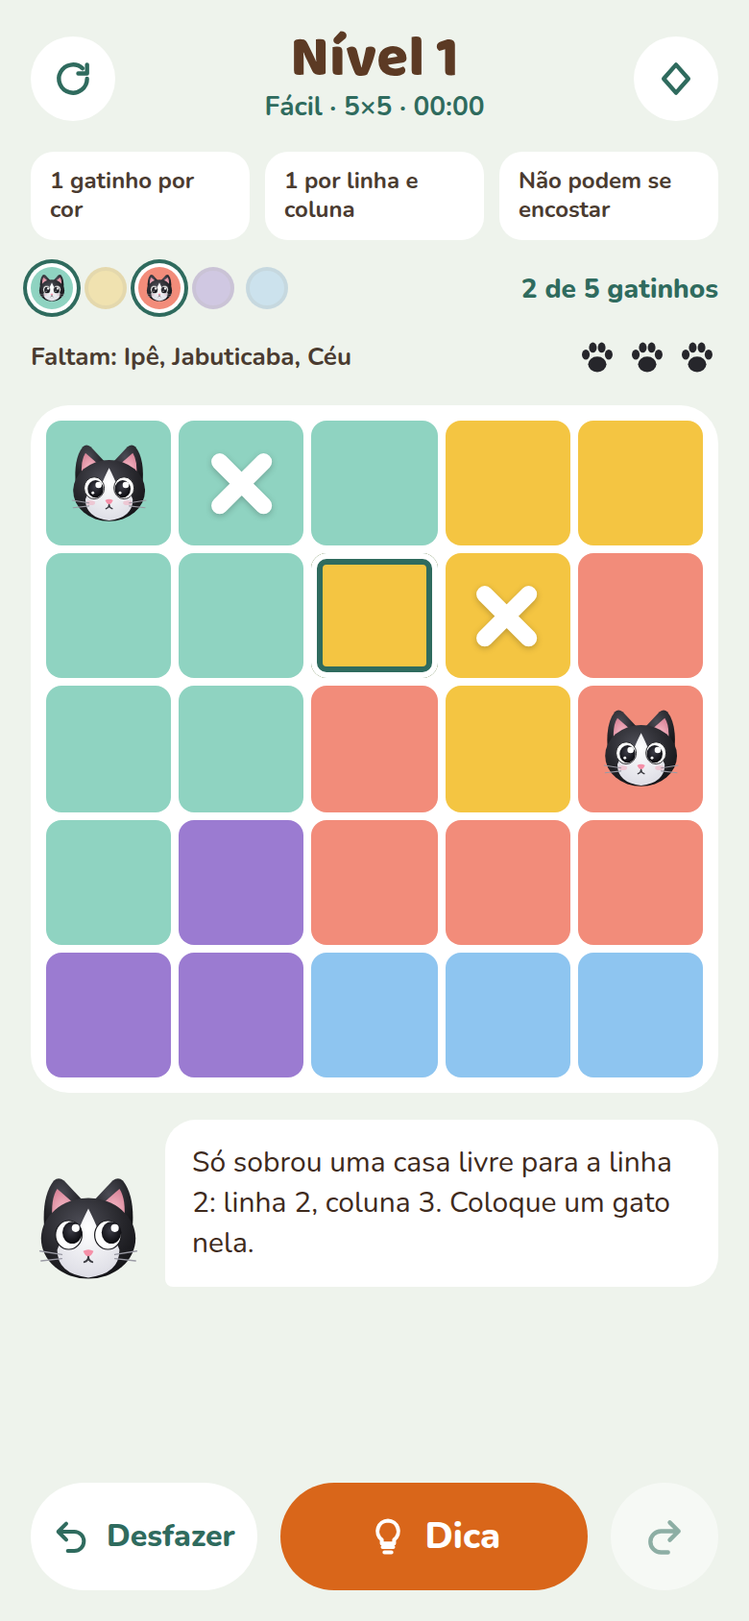
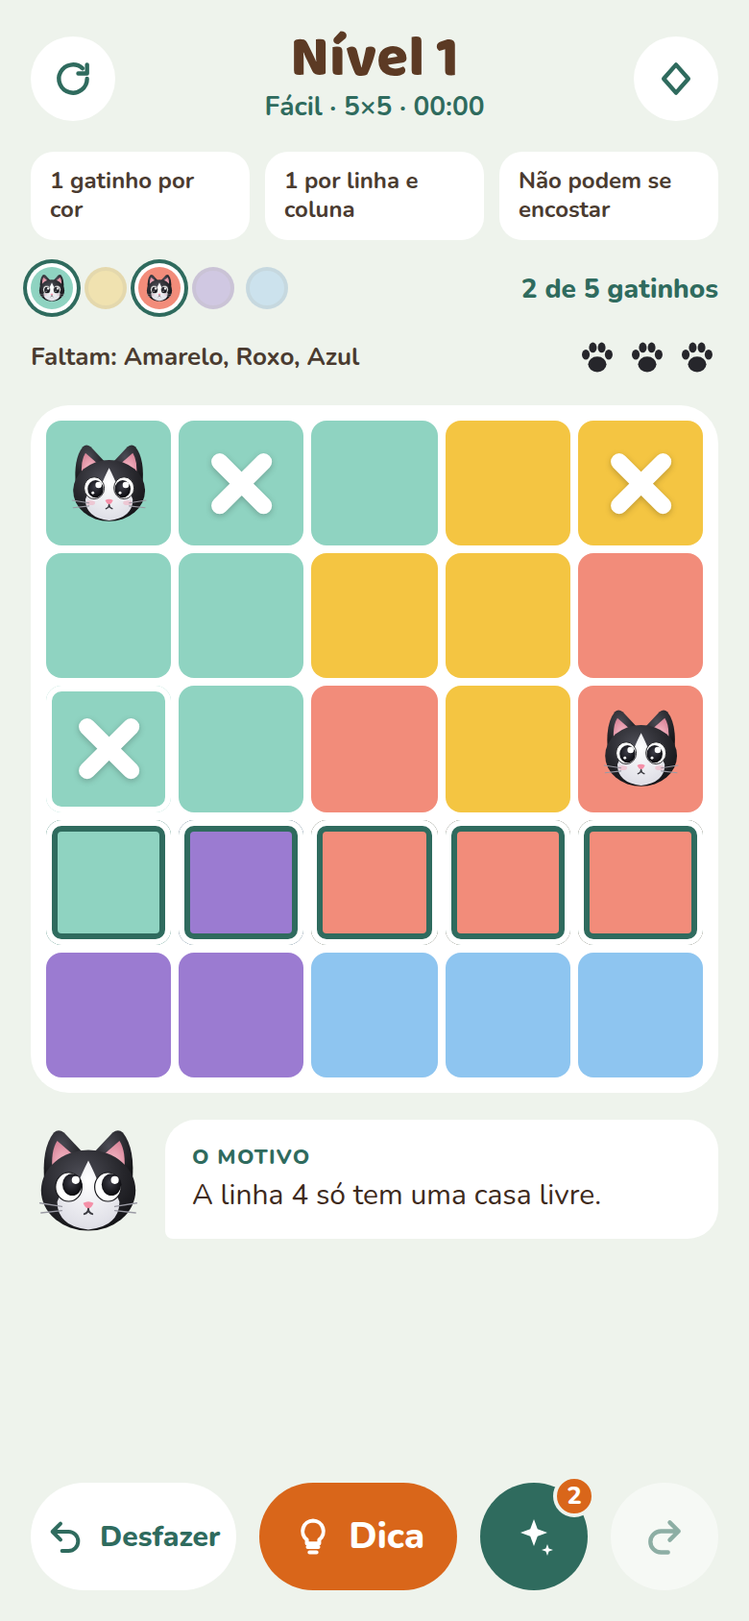
Glossário aplicado: nomes de cores simples, esqueleto de carregamento, textos e imagens atualizados

diff --git a/src/ui/main.ts b/src/ui/main.ts
@@ -4,7 +4,7 @@ import { findErrors } from '../core/hint';
 import { FIXED_LEVELS } from '../core/levels';
 import { requestLevel } from '../core/levelClient';
 import { COLOR_HEX, COLOR_NAMES, COLOR_SYMBOLS } from '../core/messages';
-import { DIFFICULTY_LABEL } from '../core/progression';
+import { DIFFICULTY_LABEL, specForLevel } from '../core/progression';
 import { EARN_EVERY, loadProgress, recordCompletion, saveProgress, spendReveal, type Progress } from '../core/progress';
 import { load, save, type KV } from '../core/storage';
 import type { Puzzle } from '../core/types';
@@ -92,14 +92,15 @@ function render(): void {
   const hintBtn = $('hintBtn') as HTMLButtonElement;
   hintBtn.disabled = !g.won && !canHint(g);
   hintBtn.dataset.mode = g.won ? 'next' : 'hint';
-  hintBtn.lastChild!.textContent = g.won ? ' Próxima fase' : ' Dica';
+  hintBtn.lastChild!.textContent = g.won ? ' Próximo nível' : ' Dica';
   $('symbols').setAttribute('aria-pressed', String(symbols));
 
   const hint = $('hint');
   if (h && !g.won) {
     hint.hidden = false;
     const text = h.level === 1 ? h.data.areaText : h.data.message;
-    hint.innerHTML = `${catHint(60)}<div class="bubble"><span>${text}</span>${h.level === 3 && h.data.apply ? '<button id="apply" class="apply">Aplicar</button>' : ''}</div>`;
+    const tag = h.data.kind === 'deduction' ? `<small class="tag">${h.level === 1 ? 'O motivo' : 'O que fazer'}</small>` : '';
+    hint.innerHTML = `${catHint(60)}<div class="bubble"><span>${tag}${text}</span>${h.level === 3 && h.data.apply ? '<button id="apply" class="apply">Fazer por mim</button>' : ''}</div>`;
   } else hint.hidden = true;
 
   $('powerCount').textContent = String(progress.powers.reveal);
@@ -109,18 +110,18 @@ function render(): void {
     sheet.hidden = false;
     sheet.innerHTML = `<div class="panel" role="dialog" aria-modal="true" aria-label="Poderes"><button id="closePowers" class="close" aria-label="Fechar">${CLOSE_SVG}</button><h2>Poderes</h2>
       <div class="power-item"><span class="ico"><svg viewBox="0 0 24 24" width="26" height="26" aria-hidden="true"><path d="M12 3l1.9 5.1L19 10l-5.1 1.9L12 17l-1.9-5.1L5 10l5.1-1.9z" fill="currentColor"/></svg></span>
-      <span class="txt"><b>Revelar um gatinho (${progress.powers.reveal})</b>Mostra um gatinho que ainda não foi achado. Não gasta tentativa.</span>
+      <span class="txt"><b>Revelar gatinho · ${progress.powers.reveal} ${progress.powers.reveal === 1 ? 'uso' : 'usos'}</b>Mostra um gatinho que ainda não foi achado. Não gasta tentativa.</span>
       <button id="useReveal" class="use" ${can ? '' : 'disabled'}>Usar</button></div>
-      <p class="sheet-note">Ganhe +1 a cada ${EARN_EVERY} níveis concluídos. Concluídos até agora: ${progress.completed}.</p></div>`;
+      <p class="sheet-note">Ganhe +1 uso a cada ${EARN_EVERY} níveis concluídos. Concluídos até agora: ${progress.completed}.</p></div>`;
   } else sheet.hidden = true;
 
   const ov = $('overlay');
   if (g.won && !winClosed) {
     ov.hidden = false;
-    ov.innerHTML = `${CONFETTI}<div class="card" role="dialog" aria-modal="true" aria-label="Fase concluída"><button id="closeWin" class="close" aria-label="Fechar">${CLOSE_SVG}</button><span class="bob">${catCheer(124)}</span><h2>Você achou todos!</h2><p>Nível ${level} concluído em ${fmt(elapsedMs(g))}</p><p>Dicas: ${g.hintsUsed} · Poderes: ${g.powersUsed} · Tentativas restantes: ${attemptsLeft(g)}</p><button id="next" class="next">Próxima fase</button></div>`;
+    ov.innerHTML = `${CONFETTI}<div class="card" role="dialog" aria-modal="true" aria-label="Nível concluído"><button id="closeWin" class="close" aria-label="Fechar">${CLOSE_SVG}</button><span class="bob">${catCheer(124)}</span><h2>Você achou todos os gatinhos!</h2><p>Nível ${level} concluído em ${fmt(elapsedMs(g))}</p><p>Dicas: ${g.hintsUsed} · Poderes: ${g.powersUsed} · Tentativas restantes: ${attemptsLeft(g)}</p><button id="next" class="next">Próximo nível</button></div>`;
   } else if (isLost(g)) {
     ov.hidden = false;
-    ov.innerHTML = `<div class="card" role="dialog" aria-modal="true" aria-label="Tentativas esgotadas"><span class="bob">${catFace(96)}</span><h2>Acabaram as tentativas</h2><p>Você usou as ${MAX_ATTEMPTS} tentativas deste quadro.</p><button id="again" class="big">Reiniciar o quadro</button><button id="keep" class="ghost">Continuar mesmo assim</button></div>`;
+    ov.innerHTML = `<div class="card" role="dialog" aria-modal="true" aria-label="Sem tentativas"><span class="bob">${catFace(96)}</span><h2>Sem tentativas</h2><p>Você usou as ${MAX_ATTEMPTS} tentativas deste nível.</p><button id="again" class="big">Recomeçar nível</button><button id="keep" class="ghost">Continuar sem limite</button></div>`;
   } else ov.hidden = true;
 }
 
@@ -129,20 +130,55 @@ function update(next: GameState): void {
     progress = recordCompletion(progress, level, elapsedMs(next));
     saveProgress(kv, progress);
   }
+  if (game && next.mistakes > game.mistakes && !isLost(next)) toast('Aqui não tem gatinho. Você perdeu 1 tentativa.');
   game = next;
   save(kv, level, game, symbols);
   render();
+}
+
+/** Esqueleto animado enquanto o Worker prepara o nível (níveis grandes podem levar alguns segundos). */
+function showLoading(k: number): void {
+  const spec = specForLevel(k);
+  const n = spec.size;
+  $('app').classList.add('loading');
+  $('title').textContent = `Nível ${k}`;
+  $('sub').textContent = `${DIFFICULTY_LABEL[spec.difficulty]} · ${n}×${n}`;
+  const board = $('board');
+  board.style.setProperty('--n', String(n));
+  board.classList.toggle('dense', n >= 9);
+  board.innerHTML = Array.from({ length: n * n }, (_, i) => `<div class="cell skel" style="animation-delay:${((Math.floor(i / n) + (i % n)) * 70) % 1400}ms"></div>`).join('');
+  $('powerCount').textContent = String(progress.powers.reveal);
+  $('progress').innerHTML = '';
+  $('found').textContent = '';
+  $('missing').textContent = '';
+  $('tries').innerHTML = '';
+  $('warn').hidden = true;
+  $('overlay').hidden = true;
+  $('sheet').hidden = true;
+  const hint = $('hint');
+  hint.hidden = false;
+  hint.innerHTML = `<span class="bob">${catHint(60)}</span><div class="bubble"><span>Preparando o nível ${k}…${n >= 9 ? ' Tabuleiros grandes demoram um pouquinho.' : ''}</span></div>`;
+}
+
+let toastTimer = 0;
+function toast(msg: string): void {
+  const t = $('toast');
+  t.textContent = msg;
+  t.hidden = false;
+  clearTimeout(toastTimer);
+  toastTimer = window.setTimeout(() => (t.hidden = true), 2200);
 }
 
 async function startLevel(k: number): Promise<void> {
   if (loading) return;
   loading = true;
   level = k;
-  $('title').textContent = `Gerando nível ${k}…`;
+  showLoading(k);
   const res = await requestLevel(k);
-  // erro tratado: a interface não trava e cai numa fase fixa
+  // erro tratado: a interface não trava e cai num nível fixo
   const puzzle: Puzzle = res.ok ? res.puzzle : FIXED_LEVELS[(k - 1) % FIXED_LEVELS.length];
   loading = false;
+  $('app').classList.remove('loading');
   prevStates = null;
   winClosed = false;
   showPowers = false;
@@ -158,7 +194,7 @@ const cellAt = (x: number, y: number): number | null => {
 const board = $('board');
 board.addEventListener('pointerdown', (e) => {
   const i = cellAt(e.clientX, e.clientY);
-  if (i !== null && game && !game.won) down = { start: i, path: [i], dragging: false };
+  if (i !== null && game && !game.won && !loading) down = { start: i, path: [i], dragging: false };
 });
 board.addEventListener('pointermove', (e) => {
   if (!down || !game) return;
@@ -182,6 +218,7 @@ board.addEventListener('click', (e) => {
 });
 
 document.addEventListener('click', (e) => {
+  if (loading) return;
   const id = (e.target as HTMLElement).closest('button')?.id;
   if (!game || !id) return;
   if (id === 'undo') update(undo(game));
@@ -208,7 +245,7 @@ document.addEventListener('click', (e) => {
 });
 
 setInterval(() => {
-  if (game && !game.won) $('sub').textContent = `${game.puzzle.difficulty ? DIFFICULTY_LABEL[game.puzzle.difficulty] : 'Fixa'} · ${game.puzzle.size}×${game.puzzle.size} · ${fmt(elapsedMs(game))}`;
+  if (game && !game.won && !loading) $('sub').textContent = `${game.puzzle.difficulty ? DIFFICULTY_LABEL[game.puzzle.difficulty] : 'Fixa'} · ${game.puzzle.size}×${game.puzzle.size} · ${fmt(elapsedMs(game))}`;
 }, 1000);
 
 const saved = load(kv);

diff --git a/src/core/game.ts b/src/core/game.ts
@@ -17,9 +17,9 @@ export interface GameState {
   history: Change[][];
   redo: Change[][];
   hintsUsed: number;
-  /** erros do jogador (X em casa de gatinho); ao chegar em MAX_ATTEMPTS a fase é perdida */
+  /** erros do jogador (X em casa de gatinho); ao chegar em MAX_ATTEMPTS o nível é perdido */
   mistakes: number;
-  /** poderes usados nesta fase */
+  /** poderes usados neste nível */
   powersUsed: number;
   /** casa que recebeu o toque anterior: um 2º toque seguido nela é uma tentativa */
   armed: number | null;
@@ -101,7 +101,7 @@ export function conflicts(g: GameState): Set<number> {
 /**
  * Dois toques seguidos na mesma casa = uma tentativa de achar o gatinho. O que decide acerto ou erro é
  * só haver (ou não) um gatinho ali; ter ou não um X na casa não importa.
- *  - 1º toque: casa vazia vira X (rascunho do jogador, nunca automático); casa já com X só fica "armada".
+ *  - 1º toque: casa vazia vira X (anotação do jogador, nunca automática); casa já com X só fica "armada".
  *  - 2º toque seguido: se há gatinho, ele aparece; se não há, o X é limpo e a tentativa é gasta (MAX_ATTEMPTS).
  * Um gatinho revelado não some ao tocar de novo.
  */
@@ -121,7 +121,7 @@ export function tap(g: GameState, i: number): GameState {
   return { ...g, armed: i, hint: null };
 }
 
-/** Arrasto: casas vazias percorridas viram X, sem sobrescrever gatos (nem X). */
+/** Arrasto: casas vazias percorridas viram X, sem sobrescrever gatinhos (nem marcas ✕). */
 export function dragX(g: GameState, path: number[]): GameState {
   if (locked(g)) return g;
   const seen = new Set<number>();
@@ -200,7 +200,7 @@ export function canHint(g: GameState): boolean {
   return !locked(g);
 }
 
-/** Toque no botão de dica: 1 = área, 2 = frase, 3 = botão Aplicar. Não conta em hintsUsed. */
+/** Toque no botão de dica: 1 = área, 2 = frase, 3 = botão Fazer por mim. Não conta em hintsUsed. */
 export function pressHint(g: GameState): GameState {
   if (!canHint(g)) return g;
   if (!g.hint) {
@@ -211,7 +211,7 @@ export function pressHint(g: GameState): GameState {
   return { ...g, hint: { ...g.hint, level: (g.hint.level + 1) as 2 | 3 } };
 }
 
-/** Aplicar (só no nível 3): marca o passo numa única entrada de histórico; hintsUsed +1. */
+/** Fazer por mim (só no nível 3): marca o passo numa única entrada de histórico; hintsUsed +1. */
 export function applyHint(g: GameState): GameState {
   const h = g.hint;
   if (!h || h.level !== 3 || !h.data.apply || locked(g)) return g;

diff --git a/src/core/messages.ts b/src/core/messages.ts
@@ -1,6 +1,6 @@
 import type { Deduction } from './human';
 
-export const COLOR_NAMES = ['Aguapé', 'Ipê', 'Pitanga', 'Jabuticaba', 'Céu', 'Capim', 'Barro claro', 'Flor', 'Tangerina', 'Neblina'];
+export const COLOR_NAMES = ['Menta', 'Amarelo', 'Coral', 'Roxo', 'Azul', 'Verde', 'Marrom', 'Rosa', 'Laranja', 'Cinza'];
 export const COLOR_HEX = ['#8FD3C1', '#F4C542', '#F28C7A', '#9B7BD1', '#8EC5F0', '#A9D86E', '#D9A273', '#F2A7C8', '#F7A955', '#B8C2CC'];
 export const COLOR_SYMBOLS = ['●', '▲', '■', '◆', '★', '✚', '⬟', '♥', '☾', '✿'];
 
@@ -54,15 +54,15 @@ export function hintMessage(d: Deduction, size: number): string {
       return `${premise} Ela fica na linha ${r}, coluna ${c}: coloque um gatinho lá.`;
     }
     case 2:
-      return `${premise} Então o gatinho da ${colors(d.regions)} está nela, e as outras casas dessa ${lineWord(d.lineKind, 1)} (que não são dessa cor) não podem ter gatinho: risque-as.`;
+      return `${premise} Então o gatinho da ${colors(d.regions)} está nela, e as outras casas dessa ${lineWord(d.lineKind, 1)} (que não são dessa cor) não podem ter gatinho: marque ✕ nelas.`;
     case 3:
-      return `${premise} Então o gatinho dessa ${lineWord(d.lineKind, 1)} é da ${colors(d.regions)}, e as casas dessa cor fora dela não podem ter gatinho: risque-as.`;
+      return `${premise} Então o gatinho dessa ${lineWord(d.lineKind, 1)} é da ${colors(d.regions)}, e as casas dessa cor fora dela não podem ter gatinho: marque ✕ nelas.`;
     case 4:
     case 7:
-      return `${premise} Então não pode haver gatinho ali: risque essa casa.`;
+      return `${premise} Então não pode haver gatinho ali: marque ✕ nessa casa.`;
     case 5:
-      return `${premise} Elas ocupam essas ${lineWord(d.lineKind, 2)}, então as casas de outras cores nelas não podem ter gatinho: risque-as.`;
+      return `${premise} Elas ocupam essas ${lineWord(d.lineKind, 2)}, então as casas de outras cores nelas não podem ter gatinho: marque ✕ nelas.`;
     case 6:
-      return `${premise} Os gatinhos dessas ${lineWord(d.lineKind, 2)} serão dessas cores, então as outras casas dessas cores, fora delas, não podem ter gatinho: risque-as.`;
+      return `${premise} Os gatinhos dessas ${lineWord(d.lineKind, 2)} serão dessas cores, então as outras casas dessas cores, fora delas, não podem ter gatinho: marque ✕ nelas.`;
   }
 }

diff --git a/index.html b/index.html
@@ -25,11 +25,11 @@
     </svg>
     <div id="app">
       <div class="top">
-        <button id="restart" class="round" aria-label="Reiniciar fase">
+        <button id="restart" class="round" aria-label="Recomeçar nível" title="Recomeçar nível">
           <svg viewBox="0 0 24 24" width="22" height="22" aria-hidden="true"><path d="M20 12a8 8 0 1 1-2.6-5.9M20 4v5h-5" stroke="#2F6B5E" stroke-width="2.4" fill="none" stroke-linecap="round" stroke-linejoin="round"/></svg>
         </button>
         <div class="titles"><span id="title">Gatinhos</span><span id="sub"></span></div>
-        <button id="symbols" class="round" aria-label="Símbolos nas cores" aria-pressed="false">
+        <button id="symbols" class="round" aria-label="Mostrar símbolos nas cores" title="Símbolos" aria-pressed="false">
           <svg viewBox="0 0 24 24" width="22" height="22" aria-hidden="true"><path d="M12 4l7 8-7 8-7-8z" stroke="currentColor" stroke-width="2.4" fill="none" stroke-linejoin="round"/></svg>
         </button>
       </div>
@@ -42,7 +42,7 @@
         <span id="missing" class="missing"></span>
         <div id="tries" class="tries" role="img"></div>
       </div>
-      <div id="warn" class="warn" role="status" hidden>Alguma marcação ✕ está errada — o X é só rascunho.</div>
+      <div id="warn" class="warn" role="status" hidden>Alguma marca ✕ está no lugar errado.</div>
       <div id="board" role="grid" aria-label="Tabuleiro"></div>
       <div id="hint" hidden></div>
       <div class="spacer"></div>
@@ -63,6 +63,7 @@
           <svg viewBox="0 0 24 24" width="22" height="22" aria-hidden="true"><path d="M15 14 L20 9 L15 4 M20 9 H10 A6 6 0 0 0 10 21 H14" stroke="#2F6B5E" stroke-width="2.4" fill="none" stroke-linecap="round" stroke-linejoin="round"/></svg>
         </button>
       </div>
+      <div id="toast" class="toast" role="status" hidden></div>
       <div id="sheet" hidden></div>
       <div id="overlay" hidden></div>
     </div>

diff --git a/src/ui/style.css b/src/ui/style.css
@@ -95,3 +95,10 @@ button:disabled { opacity: .5; cursor: default; }
 .sheet-note { margin: 0; font-size: 13px; color: var(--suave); }
 .cell.tgt { box-shadow: inset 0 0 0 3px #fff, inset 0 0 0 6px var(--tangerina); z-index: 1; }
 .layer.ghost { opacity: .55; }
+
+.tag { display: block; font-size: 11px; font-weight: 800; letter-spacing: .06em; text-transform: uppercase; color: var(--mata); margin-bottom: 2px; }
+.toast { position: absolute; left: 16px; right: 16px; top: max(env(safe-area-inset-top), 16px); z-index: 6; background: var(--frajola); color: #fff; padding: 12px 16px; border-radius: 16px; font-size: 15px; font-weight: 700; text-align: center; animation: winPop .25s ease both; }
+.cell.skel { background: linear-gradient(110deg, #e1e9de 30%, #f3f7f1 50%, #e1e9de 70%); background-size: 200% 100%; animation: shimmer 1.4s ease-in-out infinite; }
+#app.loading .bar button, #app.loading .top button { pointer-events: none; opacity: .5; }
+#hint .bob { animation: bob 1.4s ease-in-out infinite; display: block; }
+@keyframes shimmer { 0% { background-position: 150% 0; } 100% { background-position: -50% 0; } }

diff --git a/tests/hints.test.ts b/tests/hints.test.ts
@@ -174,6 +174,6 @@ describe('CA19 mensagens', () => {
   });
   it('exemplo T5 em texto', () => {
     const msg = hintMessage({ tech: 5, cats: [], xs: [0], lineKind: 'col', lines: [4, 5], regions: [3, 7], premise: [] }, 10);
-    expect(msg).toBe('As cores Jabuticaba e Flor só têm casas nas colunas 5 e 6. Elas ocupam essas colunas, então as casas de outras cores nelas não podem ter gatinho: risque-as.');
+    expect(msg).toBe('As cores Roxo e Rosa só têm casas nas colunas 5 e 6. Elas ocupam essas colunas, então as casas de outras cores nelas não podem ter gatinho: marque ✕ nelas.');
   });
 });

diff --git a/src/core/hint.ts b/src/core/hint.ts
@@ -19,7 +19,7 @@ export interface Hint {
 export const chebyshev = (n: number, a: number, b: number) =>
   Math.max(Math.abs(Math.floor(a / n) - Math.floor(b / n)), Math.abs((a % n) - (b % n)));
 
-/** Casas com erro: gato fora da solução ou X em casa de gato da solução (o X é rascunho e pode estar errado). */
+/** Casas com erro: gatinho fora da solução ou marca ✕ em casa de gatinho (a marca é anotação e pode estar errada). */
 export function findErrors(puzzle: Puzzle, cells: Mark[]): number[] {
   const n = puzzle.size;
   const out: number[] = [];

diff --git a/README.md b/README.md
@@ -13,7 +13,7 @@
 
 ## 📜 Como jogar
 
-O tabuleiro é dividido em **regiões coloridas**. Seu objetivo é encontrar **um gatinho em cada região**, seguindo três regras:
+O tabuleiro é dividido em **cores**. Seu objetivo é encontrar **um gatinho em cada cor**, seguindo três regras:
 
 | | Regra |
 |---|---|
@@ -21,48 +21,50 @@ O tabuleiro é dividido em **regiões coloridas**. Seu objetivo é encontrar **u
 | ↔↕ | **1 gatinho por linha e por coluna** |
 | 🚫 | **Gatinhos não podem se encostar**, nem na diagonal |
 
-Quando todos os gatinhos forem achados, a fase termina. 🎉
+Quando todos os gatinhos forem achados, o nível termina. 🎉
 
 ### Controles
 
-- **Toque numa casa** para riscar ✕ (o ✕ é só o *seu rascunho*: nunca é marcado sozinho e pode estar errado).
-- **Dois toques seguidos na mesma casa = 1 tentativa:** se há um gatinho ali, ele aparece 🐱; se não há, você perde uma tentativa. Ter ou não um ✕ na casa não importa; só importa haver mesmo um gatinho.
-- **Arraste** o dedo (ou o mouse) sobre casas vazias para riscar várias de uma vez.
-- **Desfazer / Refazer** voltam e repetem só as suas marcações ✕. Gatinho é escrita do jogo: depois de revelado, nunca é desfeito.
-- **Reiniciar** (canto superior esquerdo) limpa o quadro.
-- **◇** (canto superior direito) liga os **símbolos nas cores**, para ajudar quem tem dificuldade de distinguir tons.
+- **Toque numa casa** para marcar ✕ (a marca ✕ é só a *sua anotação*: nunca é colocada sozinha e pode estar errada).
+- **Dois toques seguidos na mesma casa = 1 palpite:** se há um gatinho ali, ele aparece 🐱; se não há, é um palpite errado e você perde uma tentativa. Ter ou não uma marca ✕ na casa não importa; só importa haver mesmo um gatinho.
+- **Arraste para marcar:** passe o dedo (ou o mouse) sobre casas vazias para marcar ✕ em várias de uma vez.
+- **Desfazer / Refazer** voltam e repetem só as suas marcas ✕. Gatinho é escrita do jogo: depois de revelado, nunca é desfeito.
+- **Recomeçar nível** (⟲, canto superior esquerdo) limpa o tabuleiro.
+- **Símbolos** (◇, canto superior direito) mostram um símbolo em cada cor, para ajudar quem tem dificuldade de distinguir tons.
 
 ### Tentativas e progresso
 
-- Você tem **3 tentativas por quadro** (as patinhas ao lado do quadro). Gasta uma quando você faz o duplo toque numa casa que **não** tem gatinho. Desfazer não devolve tentativa.
+- Você tem **3 tentativas por nível** (as patinhas ao lado do tabuleiro). Gasta uma quando você dá um palpite numa casa que **não** tem gatinho. Desfazer não devolve tentativa.
 - Acima do tabuleiro, as bolinhas mostram **quais cores já têm gatinho** (com o gatinho dentro) e quais ainda faltam, com os nomes ao lado.
-- Se alguma marcação ✕ estiver sobre um gatinho de verdade, aparece um aviso — sem dizer onde.
+- Se alguma marca ✕ estiver sobre um gatinho de verdade, aparece um aviso — sem dizer onde.
 
 <p align="center">
-  <img src="docs/celular-tentativas.png" alt="Fim das tentativas" width="170" />
-  &nbsp;&nbsp;
-  <img src="docs/celular-vitoria.png" alt="Fase concluída" width="170" />
+  <img src="docs/celular-dica.png" alt="Dica: o que fazer" width="150" />
+  <img src="docs/celular-poderes.png" alt="Poderes" width="150" />
+  <img src="docs/celular-tentativas.png" alt="Sem tentativas" width="150" />
+  <img src="docs/celular-vitoria.png" alt="Nível concluído" width="150" />
+  <img src="docs/celular-carregando.png" alt="Preparando o nível" width="150" />
 </p>
 
-- **Acabaram as tentativas?** Você escolhe: **Reiniciar o quadro** (recomendado) ou **Continuar mesmo assim**.
-- **Venceu?** Um aviso mostra seu tempo e as dicas usadas, com botão para a **próxima fase** (e um ✕ para fechar e admirar o tabuleiro).
+- **Sem tentativas?** Você escolhe: **Recomeçar nível** (recomendado) ou **Continuar sem limite**.
+- **Venceu?** Um aviso mostra seu tempo e as dicas usadas, com botão **Próximo nível** (e um ✕ para fechar e admirar o tabuleiro).
 
 ### ✨ Poderes
 
-O botão **✨** (com o número de cargas) abre os poderes. Por enquanto existe o **Revelar um gatinho**: mostra um gatinho que ainda não foi achado (o da cor mais difícil de deduzir), sem gastar tentativa, e dá para desfazer. Você começa com 2 cargas e ganha **+1 a cada 3 níveis concluídos**.
+O botão **✨** (com o número de usos) abre os poderes. Por enquanto existe o **Revelar gatinho**: mostra um gatinho que ainda não foi achado (o da cor mais difícil de deduzir), sem gastar tentativa, e dá para desfazer. Você começa com 2 usos e ganha **+1 a cada 3 níveis concluídos**.
 
 ### 📈 Progressão
 
-- **Níveis 1–30:** lotes de 5 níveis, o tabuleiro cresce de **5×5 → 6×6 → … → 10×10** (Fácil → Médio → Difícil).
+- **Níveis 1–30:** etapas de 5 níveis, o tabuleiro cresce de **5×5 → 6×6 → … → 10×10** (Fácil → Médio → Difícil).
 - **Depois do 30:** a maioria é **10×10** (todo nível múltiplo de 5 é 9×9, um respiro) e, **a cada 10 níveis, o patamar sobe**: 31–40 Difícil, 41+ Expert.
-- **Gatinho inicial:** nas dificuldades altas (a partir do nível 21) a fase pode já começar com 1 gatinho revelado, marcado com contorno tracejado. A chance é 50% nos níveis 21–30, 60% nos 31–40 e cai 15 pontos a cada 10 níveis, chegando a 0 no nível 71 — um empurrãozinho que some conforme você evolui. O sorteio é fixo por nível (igual em qualquer aparelho).
-- **Salvo no seu aparelho:** o nível atual, a partida em andamento, as cargas de poder, níveis concluídos e melhores tempos ficam no `localStorage` do navegador. Cada aparelho tem o próprio progresso, sem conta nem servidor.
+- **Gatinho de brinde:** nas dificuldades altas (a partir do nível 21) o nível pode já começar com 1 gatinho revelado, marcado com contorno tracejado. A chance é 50% nos níveis 21–30, 60% nos 31–40 e cai 15 pontos a cada 10 níveis, chegando a 0 no nível 71 — um empurrãozinho que some conforme você evolui. O sorteio é fixo por nível (igual em qualquer aparelho).
+- **Salvo no seu aparelho:** o nível atual, a partida em andamento, os usos de poder, níveis concluídos e melhores tempos ficam no `localStorage` do navegador. Cada aparelho tem o próprio progresso, sem conta nem servidor.
 
 ## 💡 3 dicas para começar
 
-1. **Comece pelas cores pequenas.** Uma região com poucas casas (ou numa linha/coluna só) tem pouquíssimos lugares possíveis para o gatinho.
-2. **Gatinho achado = risque ao redor.** Na linha, na coluna, na mesma cor e nas 8 casas vizinhas, ninguém mais pode ficar. Marque ✕ nelas para limpar a cabeça.
-3. **Travou? Peça a Dica.** Toque em **Dica** até 3 vezes: o 1º mostra *o porquê* (as casas da premissa ficam destacadas, ex.: "a cor Jabuticaba só tem casas na linha 5"), o 2º diz *o que fazer* (as casas a riscar ficam em laranja) e o 3º oferece **Aplicar**. Só aplicar conta como dica usada.
+1. **Comece pelas cores pequenas.** Uma cor com poucas casas (ou numa linha/coluna só) tem pouquíssimos lugares possíveis para o gatinho.
+2. **Gatinho achado = marque ✕ ao redor.** Na linha, na coluna, na mesma cor e nas 8 casas vizinhas, ninguém mais pode ficar. Marque ✕ nelas para limpar a cabeça.
+3. **Travou? Peça a Dica.** Toque em **Dica** até 3 vezes: o 1º mostra *o porquê* (as casas do motivo ficam destacadas, ex.: "a cor Roxo só tem casas na linha 5"), o 2º diz *o que fazer* (as casas a riscar ficam em laranja) e o 3º oferece **Fazer por mim**. Só esse passo conta como dica usada.
 
 ---
 
@@ -78,7 +80,7 @@ npm run build      # typecheck + build de produção
 **Estrutura**
 
 - `src/core/` — lógica pura e testável: modelo, validador, gerador (seed + unicidade), solver de força bruta, solver humano T1–T7, dicas, estado do jogo (desfazer, tentativas), persistência.
-- `src/ui/` — interface (toque/arrasto, dicas, modais). A geração das fases roda num Web Worker.
+- `src/ui/` — interface (toque/arrasto, dicas, modais). A preparação dos níveis roda num Web Worker.
 - `tests/` — testes por marco; cada um cita o critério de aceite (CA01–CA25).
 - `docs/` — imagens deste README.
 
@@ -87,5 +89,7 @@ Dificuldade: T1–T2 Fácil, T3–T4 Médio, T5–T6 Difícil, T7 Expert.
 
 **CI** (`.github/workflows/ci.yml`): typecheck + testes → build → deploy no GitHub Pages (só em `main`).
 Para **pular os testes**: `[skip tests]` na mensagem do commit, label `skip-tests` no PR, ou "Pular os testes" ao disparar manualmente. O build e o deploy continuam rodando.
+
+Enquanto o Worker prepara um nível grande, aparece um esqueleto animado do tabuleiro com o gatinho de dica.
 
 **Pendente no aparelho:** CA03 (arrasto), CA09 (long task), CA17, CA21–CA25 (instalação, offline, safe areas, roteiro no iPhone).

diff --git a/docs/GLOSSARIO.md b/docs/GLOSSARIO.md
@@ -1,7 +1,7 @@
 # Glossário de termos do jogo (para revisão)
 
 Objetivo: um vocabulário único, simples e consistente em toda a interface, mensagens, README e código visível ao jogador.
-**Nada aqui foi aplicado ainda** — revise a coluna "Proposta" e me diga o que mudar.
+**Status: aprovado e aplicado** (interface, README, canvas e imagens). A coluna "Proposta" é o termo em uso.
 
 Regras gerais: tratamento neutro e direto ("você"), frases curtas, verbos no imperativo nos botões, sempre **gatinho** (nunca "gato"), sempre contar linhas/colunas a partir de 1.
 
@@ -64,7 +64,11 @@ Regras gerais: tratamento neutro e direto ("você"), frases curtas, verbos no im
 | Erro ao preparar nível | "Não deu para preparar este nível. Tente de novo." |
 | Dica de erro | "Tem algo errado aqui." |
 
-## Perguntas para você decidir
+## Nomes das cores do tabuleiro (simplificados)
+
+Menta · Amarelo · Coral · Roxo · Azul · Verde · Marrom · Rosa · Laranja · Cinza (antes: Aguapé, Ipê, Pitanga, Jabuticaba, Céu, Capim, Barro claro, Flor, Tangerina, Neblina). "Tangerina" fica reservado à cor de ação da interface.
+
+## Perguntas respondidas (todas aceitas como propostas)
 
 1. **Nível** como termo único (sem "fase")? Concordo em trocar também "Próxima fase" → "Próximo nível".
 2. **Tentativas** (🐾) ou **vidas**? Proposto: tentativas.
